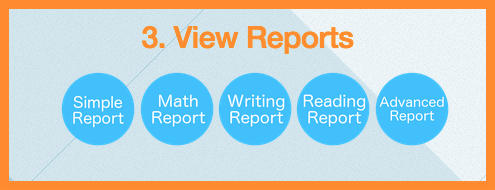
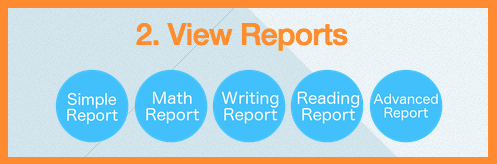
Cosmetic changes

Changed region(s): [[0.0, 0.0305, 1.0, 0.9756]]

diff --git a/templates/mysite/howitworks.html b/templates/mysite/howitworks.html
@@ -36,23 +36,18 @@
             <br>
             <h2 style = "color: #FF8C00">Step 0: Buy the Book</h2><br>
             <img height="250px" src="{% static 'mysite/css/images/book.png' %}"></img>
-            <p style = "color: #348cb2; font-weight: bold">Purchase the CollegeBoard book "The Official SAT Study Guide Second Edition" here at this <a href="http://www.amazon.com/Official-Study-Guide-Second-Edition/dp/0874478529">link.</a>&nbsp;Excelerate Test Prep is not affiliated with CollegeBoard, but simply acts as an analysis tool for third party test preparation books.</p>
+            <p style = "color: #348cb2; font-weight: bold">Purchase the CollegeBoard book "The Official SAT Study Guide Second Edition" here at this <a style = "color: #FF8C00" href="http://www.amazon.com/Official-Study-Guide-Second-Edition/dp/0874478529">link.</a>&nbsp;Excelerate Test Prep is not affiliated with CollegeBoard, but simply acts as an analysis tool for third party test preparation books.</p>
 
             <br>
-            <h2 style = "color: #FF8C00">Step 1: Download the Answer Sheet</h2><br>
+            <h2 style = "color: #FF8C00">Step 1: Choose a Test to Take</h2><br>
             <img src="{% static 'mysite/css/images/section1.png' %}"></img>
             <p style = "color: #348cb2; font-weight: bold">Download an answer sheet as a CSV file. Each option for the download will correspond to a test in the book. For example "CB1" corresponds to the first CollegeBoard book practice test.</p>
-
-            <h2 style = "color: #FF8C00">Step 2: Fill in the Answer Sheet</h2><br>
-            <img src="{% static 'mysite/css/images/answersheet.png' %}"></img>
-            <p style = "color: #348cb2; font-weight: bold">Fill in the corresponding sections with your answers IN CAPITAL LETTERS A,B,C,D,E, or ? to leave it blank. Only fill in the answers, date, and the essay score. Leave the username and test code as is. For the fill in math answer sheet when given a ratio answer leave it as a decimal and round up to at most 2 decimal places. Refer to the example below or download a perfect sample CSV answer sheet for the first collegeboard test (CB1) <a href="{% static 'sample.csv' %}">here</a> for reference.</p>
-            <img src="{% static 'mysite/css/images/mathsheet.png' %}"></img>
-
-            <h2 style = "color: #FF8C00">Step 3: Upload and Grade the Answer Sheet</h2><br>
-            <img src="{% static 'mysite/css/images/section2.png' %}"></img>
-            <p style = "color: #348cb2; font-weight: bold">Upload the CSV file with your answers inputted and click grade and save. Please refrain from changing the filename. If the grading was successful you will be directed to a report that lists the questions you have missed. If you see an error message please make sure the answer sheet was filled properly using instructions from the previous step. </p>
-
-            <h2 style = "color: #FF8C00">Step 4: View the Reports</h2><br>
+            <br>
+            <h2 style = "color: #FF8C00">Step 2: Fill in the Bubble Sheet</h2><br>
+            <img src="{% static 'mysite/css/images/bubblesheet.png' %}" width="60%"></img>
+            <p style = "color: #348cb2; font-weight: bold">Fill in the bubblesheet accordingly with your answers. Enter an essay score estimate from 2 to 12 and follow the instructions on the bubble sheet for the math fill in questions. Once you have finished submit the bubblesheet. If you would like to proctor or time yourself take advantage of our built-in stopwatch!</p>
+            <br>
+            <h2 style = "color: #FF8C00">Step 3: View the Reports</h2><br>
             <img src="{% static 'mysite/css/images/report.png' %}"></img>
             <p style = "color: #348cb2; font-weight: bold">After you save test data and input it refer to the many different reports we offer for a comprehensive and in depth look at your performance. Use data from any glaring vulnerabilities and focus on studying those! Chart your progress and improvements over time and see yourself improve. </p>
 

diff --git a/userauth/templates/userauth/UserDashboard.html b/userauth/templates/userauth/UserDashboard.html
@@ -80,35 +80,28 @@
 
 					<div>
 						<nav>
-						
-								<h2 style = "color: #FF8C00" >1. Select a Test to Take</h2>
+							<h1> Welcome {% block fname %}fname{% endblock fname %} {% block lname %}lname{% endblock lname %} </h1><br>
+
+							<h2 style = "color: #FF8C00" >1. Select and Take a Test</h2>
 									
-                  <form action="{% url 'login:bubblesheet' %}" method="post">{% csrf_token %}
-                    <div class="dropdown">
-                      <button class="btn btn-info dropdown-toggle" type="button" id="dropdownMenu1" data-toggle="dropdown">
-                        Answer Sheets
-                        <span class="caret"></span>
-                      </button>
-                        <ul class="dropdown-menu" role="menu" aria-labelledby="dropdownMenu1">
-                        {% for item in test_list %}
-                          <li roll="presentation"><button class="btn btn-lg btn-block" role="menuitem" name="test" id="test" value="{{ item }}">{{ item }}</button></li>
-                        {% endfor %}
-                        </ul>
-                    </div>
-                  </form>
+			                  <form action="{% url 'login:bubblesheet' %}" method="post">{% csrf_token %}
+			                    <div class="dropdown">
+			                      <button class="btn btn-info dropdown-toggle" type="button" id="dropdownMenu1" data-toggle="dropdown">
+			                        Answer Sheets
+			                        <span class="caret"></span>
+			                      </button>
+			                        <ul class="dropdown-menu" role="menu" aria-labelledby="dropdownMenu1">
+			                        {% for item in test_list %}
+			                          <li roll="presentation"><button class="btn btn-lg btn-block" role="menuitem" name="test" id="test" value="{{ item }}">{{ item }}</button></li>
+			                        {% endfor %}
+			                        </ul>
+			                    </div>
+			                  </form>
 
 						</nav>
+
 						<nav>
-							<h2 style = "color: #FF8C00" >2. Upload a Test to Grade</h2>
-							<center>
-                <form method="post" action="{% url 'login:upload' %}" name="submit" enctype="multipart/form-data">{% csrf_token %}
-                  <input type="file" class="btn btn-sm btn-info" name="file"><br />
-                  <input type="submit" class="btn btn-sm btn-info" id="submit" name="submit" value="Grade File and Save">
-                </form>
-              </center>
-						</nav>
-						<nav>
-							<h2 style = "color: #FF8C00" >3. View Reports</h2>
+							<h2 style = "color: #FF8C00" >2. View Reports</h2>
 							<ul>
 								<li style = "color: #348cb2"><a href="{% url 'login:simple_report' %}"><img src="{% static 'dashboard/css/images/SimpleReport.png' %}" alt="Simple Report" height="90" width="90" onmouseout = "this.src = '{% static 'dashboard/css/images/SimpleReport.png' %}' " onmouseover = "this.src = '{% static 'dashboard/css/images/A.png' %}'"></img></a></li>
 								<li style = "color: #348cb2"><a href="{% url 'login:math_report' %}"><img src="{% static 'dashboard/css/images/MathReport.png' %}" alt="Section Reports" height="90" width="90"onmouseout = "this.src = '{% static 'dashboard/css/images/MathReport.png' %}' " onmouseover = "this.src = '{% static 'dashboard/css/images/B.png' %}'"></img></a></li>

diff --git a/userauth/views.py b/userauth/views.py
@@ -248,7 +248,7 @@ def upload_file(request):
             console.process_commands('grade ' + request.FILES['file'].name)
             if console.error != None:
                 #print console.error
-                return HttpResponse('There was an issue grading your CSV file. Please ensure you followed the instructions on our "How it Works" page and try again. Click <a href="javascript:history.go(-1)">here</a> return to the dashboard page.')
+                return HttpResponse('There was an issue grading your CSV file. Your essay might not be a valid value. Please ensure you followed the instructions on our "How it Works" page and try again. Click <a href="javascript:history.go(-1)">here</a> return to the dashboard page.')
             else:
                 console.process_commands('save')
                 bucket = call_bucket()

diff --git a/userauth/Library/Commands.py b/userauth/Library/Commands.py
@@ -398,7 +398,7 @@ def make_bubble_question(question_number, bubble_True_or_False):
         lines.append('&nbsp;&nbsp;&nbsp;&nbsp;' + endl)
         lines.append('<input type="radio" name=' + '"' + str(qnum) + '"' +  'value="E"/>   E' + endl)
         lines.append('&nbsp;&nbsp;&nbsp;&nbsp;' + endl)
-        lines.append('<input type="radio" name=' + '"' + str(qnum) + '"' +  'value="?" checked />BLANK' + endl)
+        lines.append('<input type="radio" name=' + '"' + str(qnum) + '"' +  'value="?" checked />   BLANK' + endl)
         lines.append('<br/>' + endl)
         return(lines)
 
